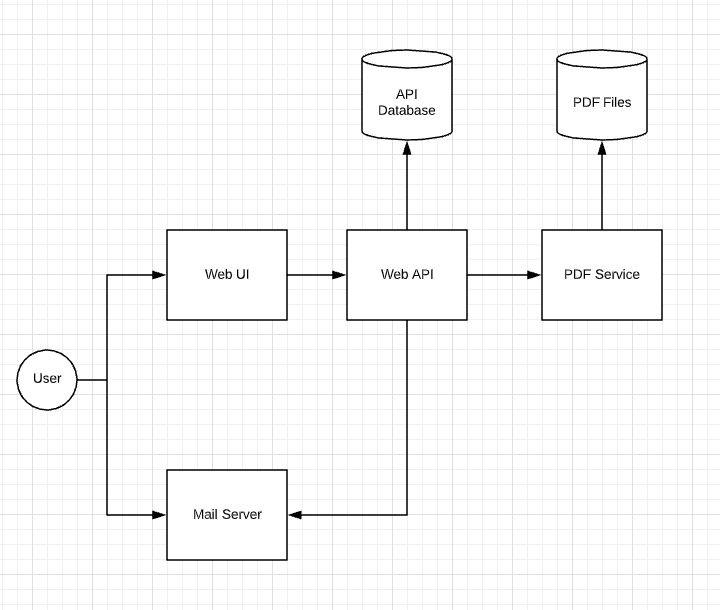
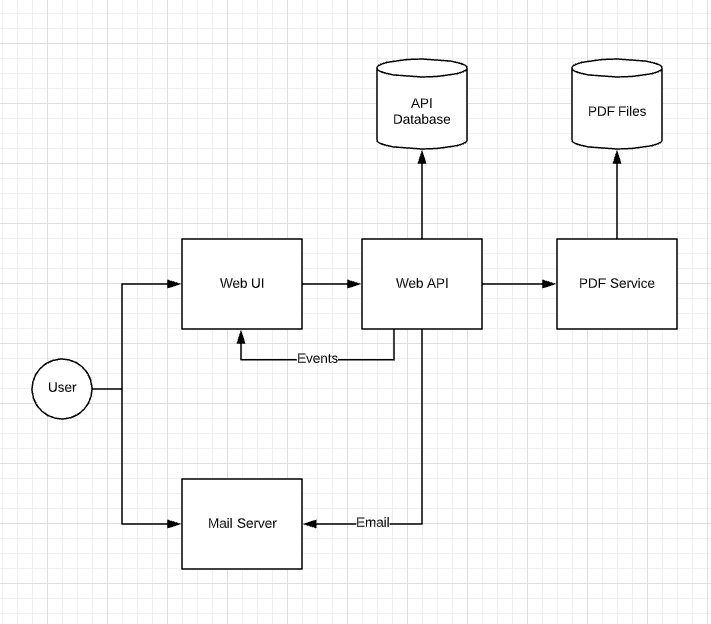
Added events flow to the diagram

diff --git a/README.md b/README.md
@@ -24,6 +24,8 @@ Internally Zbyrach API uses three dependant components:
 * medium.com - for finding articles by keywords
 * PDF service - for converting HTML pages into PDF documents
 
+To communicate to the Web UI in the real time is used SignalR.
+
 ![](https://github.com/alexmartyniuk/zbyrach-api/blob/master/docs/img/architecture-diagram.png?raw=true)
 
 ### Database
@@ -34,7 +36,7 @@ The database is managed by PostgreSQL engine and hosted in the Heroku cloud.
 
 ## medium.com
 
-The Medium.com site is used to find articles by keywords and get the content of the article. The technic is used to grab content from the site is similar to the web crawler.
+The [Medium.com](http://medium.com) site is used to find articles by keywords and get the content of the article. The technic is used to grab content from the site is similar to the web crawler.
 
 ## PDF service
 
